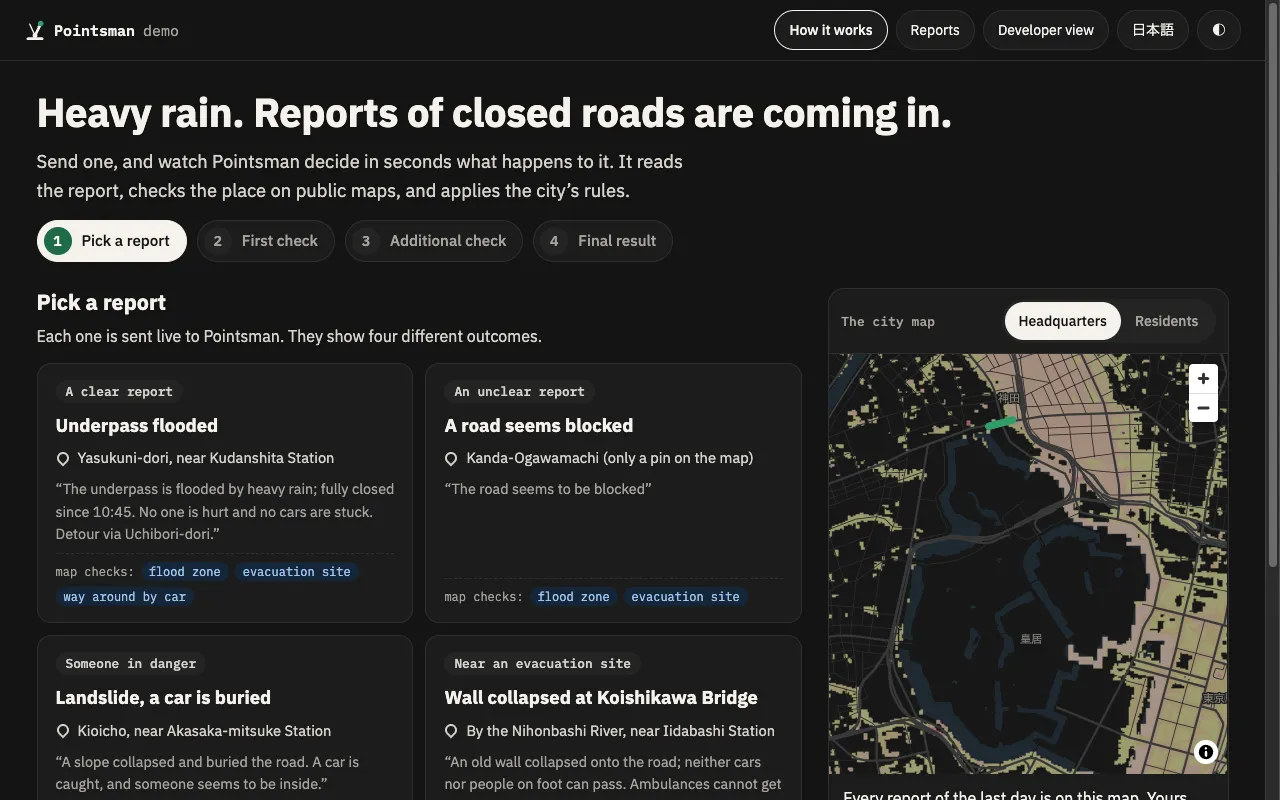
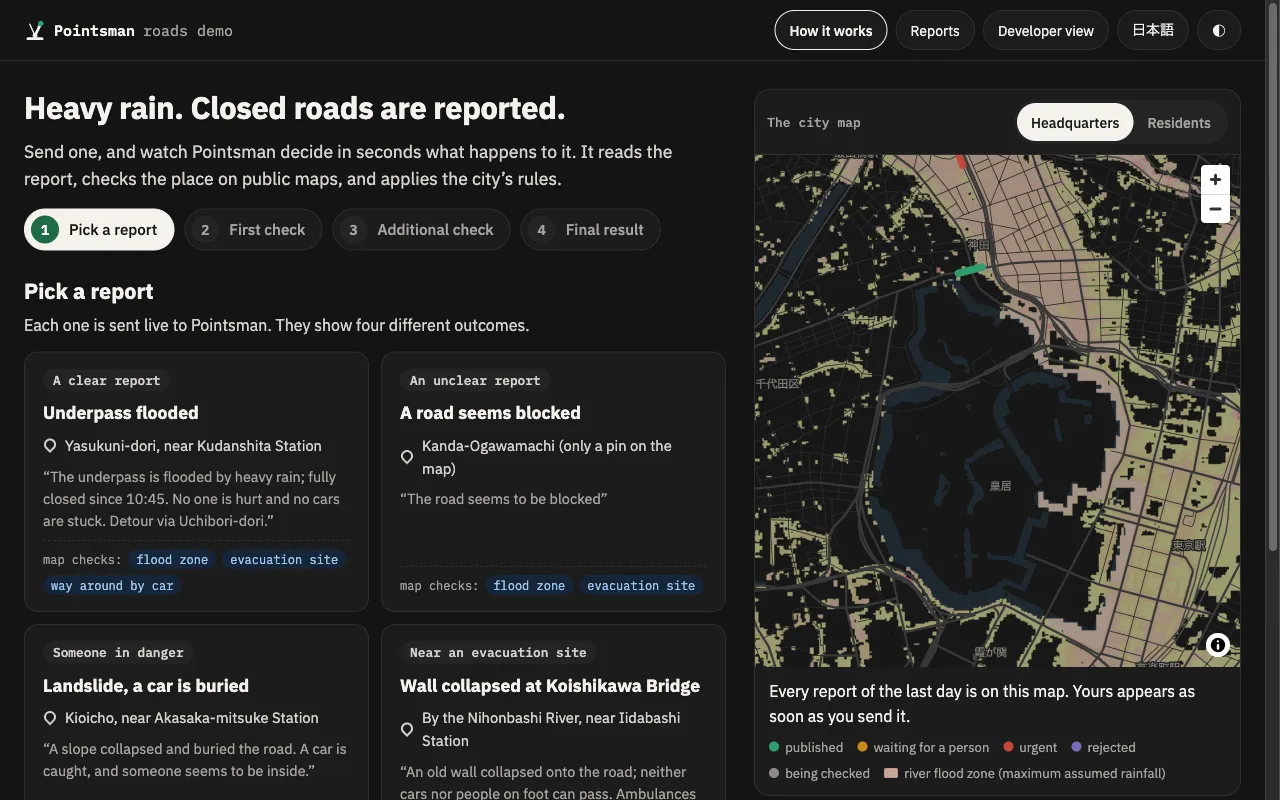
Site: demos page title, shorter intro, new screenshots (#297)
* Site: demos page title 'Pointsman demos', intro in two one-line paragraphs, new screenshots

The intro no longer wraps for a word or two: two short paragraphs, each one line on a desktop screen, in English and Japanese. The page title (also in the browser tab and link preview) is 'Pointsman demos' / 'Pointsman デモ'. The tile screenshots show both demos with their shared layout and the shorter roads headline (dark theme, 1280x800).

* Site: demos intro says 'see' like the description; CSS comment for the two-line intro

---------

diff --git a/site/ja/demos/index.html b/site/ja/demos/index.html
@@ -3,10 +3,10 @@
 <head>
 <meta charset="utf-8">
 <meta name="viewport" content="width=device-width, initial-scale=1">
-<title>デモ – Pointsman</title>
-<meta name="description" content="ブラウザで Pointsman を試せます。どのデモも公開データでその場で動き、インストールは要りません。">
-<meta property="og:title" content="デモ – Pointsman">
-<meta property="og:description" content="ブラウザで Pointsman を試せます。どのデモも公開データでその場で動き、インストールは要りません。">
+<title>Pointsman デモ</title>
+<meta name="description" content="ブラウザで Pointsman を試せます。公開データでその場で動きます。架空の報告や依頼を送り、Pointsman の判断とその理由を見てください。">
+<meta property="og:title" content="Pointsman デモ">
+<meta property="og:description" content="ブラウザで Pointsman を試せます。公開データでその場で動きます。架空の報告や依頼を送り、Pointsman の判断とその理由を見てください。">
 <meta property="og:type" content="website">
 <meta property="og:site_name" content="Pointsman">
 <meta property="og:locale" content="ja_JP">
@@ -60,8 +60,9 @@
 <section class="band" id="demos">
   <div class="wrap">
     <div class="section-head">
-      <h1>デモ</h1>
-      <p>ブラウザで Pointsman を試せます。どのデモも公開データでその場で動き、インストールは要りません。デモの報告や依頼は架空のものです。</p>
+      <h1>Pointsman デモ</h1>
+      <p>ブラウザで Pointsman を試せます。公開データでその場で動き、インストールは要りません。</p>
+      <p>報告や依頼を送り、Pointsman の判断とその理由を見てください。報告や依頼は架空のものです。</p>
     </div>
     <div class="demo-grid">
       <article class="card demo-card">

diff --git a/site/demos/index.html b/site/demos/index.html
@@ -3,10 +3,10 @@
 <head>
 <meta charset="utf-8">
 <meta name="viewport" content="width=device-width, initial-scale=1">
-<title>Demos – Pointsman</title>
-<meta name="description" content="Try Pointsman in the browser. Each demo runs live on public data, with nothing to install.">
-<meta property="og:title" content="Demos – Pointsman">
-<meta property="og:description" content="Try Pointsman in the browser. Each demo runs live on public data, with nothing to install.">
+<title>Pointsman demos</title>
+<meta name="description" content="Try Pointsman in your browser, live on public data. Send a made-up report or request and see what Pointsman decides, and why.">
+<meta property="og:title" content="Pointsman demos">
+<meta property="og:description" content="Try Pointsman in your browser, live on public data. Send a made-up report or request and see what Pointsman decides, and why.">
 <meta property="og:type" content="website">
 <meta property="og:site_name" content="Pointsman">
 <meta property="og:locale" content="en_US">
@@ -60,8 +60,9 @@
 <section class="band" id="demos">
   <div class="wrap">
     <div class="section-head">
-      <h1>Demos</h1>
-      <p>Try Pointsman in the browser. Each demo runs live on public data, with nothing to install. The reports and requests in them are made up.</p>
+      <h1>Pointsman demos</h1>
+      <p>Try Pointsman in your browser, live on public data. There is nothing to install.</p>
+      <p>Send a report or a request and see what Pointsman decides, and why. The reports and requests are made up.</p>
     </div>
     <div class="demo-grid">
       <article class="card demo-card">

diff --git a/site/assets/site.css b/site/assets/site.css
@@ -170,7 +170,7 @@ section.band.alt { background: var(--bg-alt); }
 
 /* Demos page (demos/): one tile per demo, a screenshot on top. */
 .section-head h1 { font-size: clamp(32px, 4vw, 44px); }
-/* The demos page intro is one short sentence: it uses the full width, like the tiles below it. */
+/* The demos page intro is two short lines: they use the full width, like the tiles below them. */
 #demos .section-head { max-width: none; }
 .demo-grid { display: grid; grid-template-columns: repeat(auto-fill, minmax(min(100%, 340px), 1fr)); gap: 18px; }
 .demo-card { padding: 0; overflow: hidden; display: flex; flex-direction: column; }
